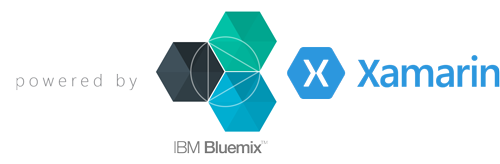
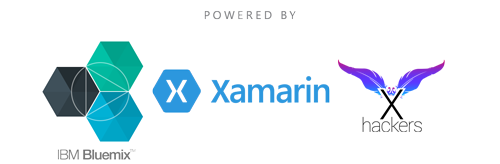
Fixed powered by

diff --git a/xhacknight1/index.html b/xhacknight1/index.html
@@ -94,10 +94,11 @@
             <div class="row">
                 <div class="main-slider">
                     <div class="slide-text">
-                    <img src="images/bluemix-xhackers.png">
+                    <!-- <img src="images/bluemix-xhackers.png"> -->
                         <h1>LEARN.HACK.WIN</h1>
                         <h2>  a Cross Platform Mobile Hackathon</h2>
                         <h3>Bangalore, IN | Aug 22-23 2015</h3>
+                        <a href="#" class="btn btn-common">REGISTER</a>
                     </div>
                     <img src="images/home/slider/hill.png" class="slider-hill" alt="slider image">
                     <img src="images/home/slider/house.png" class="slider-house" alt="slider image">
@@ -137,10 +138,24 @@
     <section id="features">
         <div class="container">
             <div class="row">
+                    <div class="col-sm-12">
+                    <div class="clients text-center wow fadeInUp" data-wow-duration="500ms" data-wow-delay="300ms">
+                        <p><img src="images/bluemix-xhackers.png" class="img-responsive" alt=""></p>
+                    </div>
+                    </div>
+                    </div>
+                    </div>
+                    </section>
+    <section id="features">
+        <div class="container">
+            <div class="row">
+
+
                 <div class="single-features">
                     <div class="col-sm-5 wow fadeInLeft" data-wow-duration="500ms" data-wow-delay="300ms">
                         <img src="images/home/image1.png" class="img-responsive" alt="">
                     </div>
+
                     <div class="col-sm-6 wow fadeInRight" data-wow-duration="500ms" data-wow-delay="300ms">
                         <h2>AN OVERNIGHT HACK</h2>
                         <P>Pork belly leberkas cow short ribs capicola pork loin. Doner fatback frankfurter jerky meatball pastrami bacon tail sausage. Turkey fatback ball tip, tri-tip tenderloin drumstick salami strip steak.</P>
